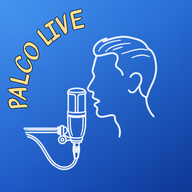
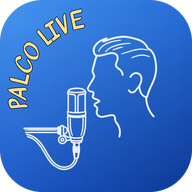
Ícone com cantos arredondados (PC)
Claude-Session: https://claude.ai/code/session_01X5774HYmM1oX7DoUMbAUKf

diff --git a/sw.js b/sw.js
@@ -1,4 +1,4 @@
-const V='palco-v23';
+const V='palco-v24';
 const FILES=['./','index.html','pdf.min.js','pdf.worker.min.js','manifest.webmanifest','icon-192.png','icon-512.png','icon-192-maskable.png','icon-512-maskable.png'];
 self.addEventListener('install',e=>{ e.waitUntil(caches.open(V).then(c=>Promise.all(FILES.map(f=>fetch(f,{cache:'reload'}).then(r=>r.ok?c.put(f,r):0)))).then(()=>self.skipWaiting())); });
 self.addEventListener('activate',e=>{ e.waitUntil(caches.keys().then(ks=>Promise.all(ks.filter(k=>k!==V).map(k=>caches.delete(k)))).then(()=>self.clients.claim())); });
